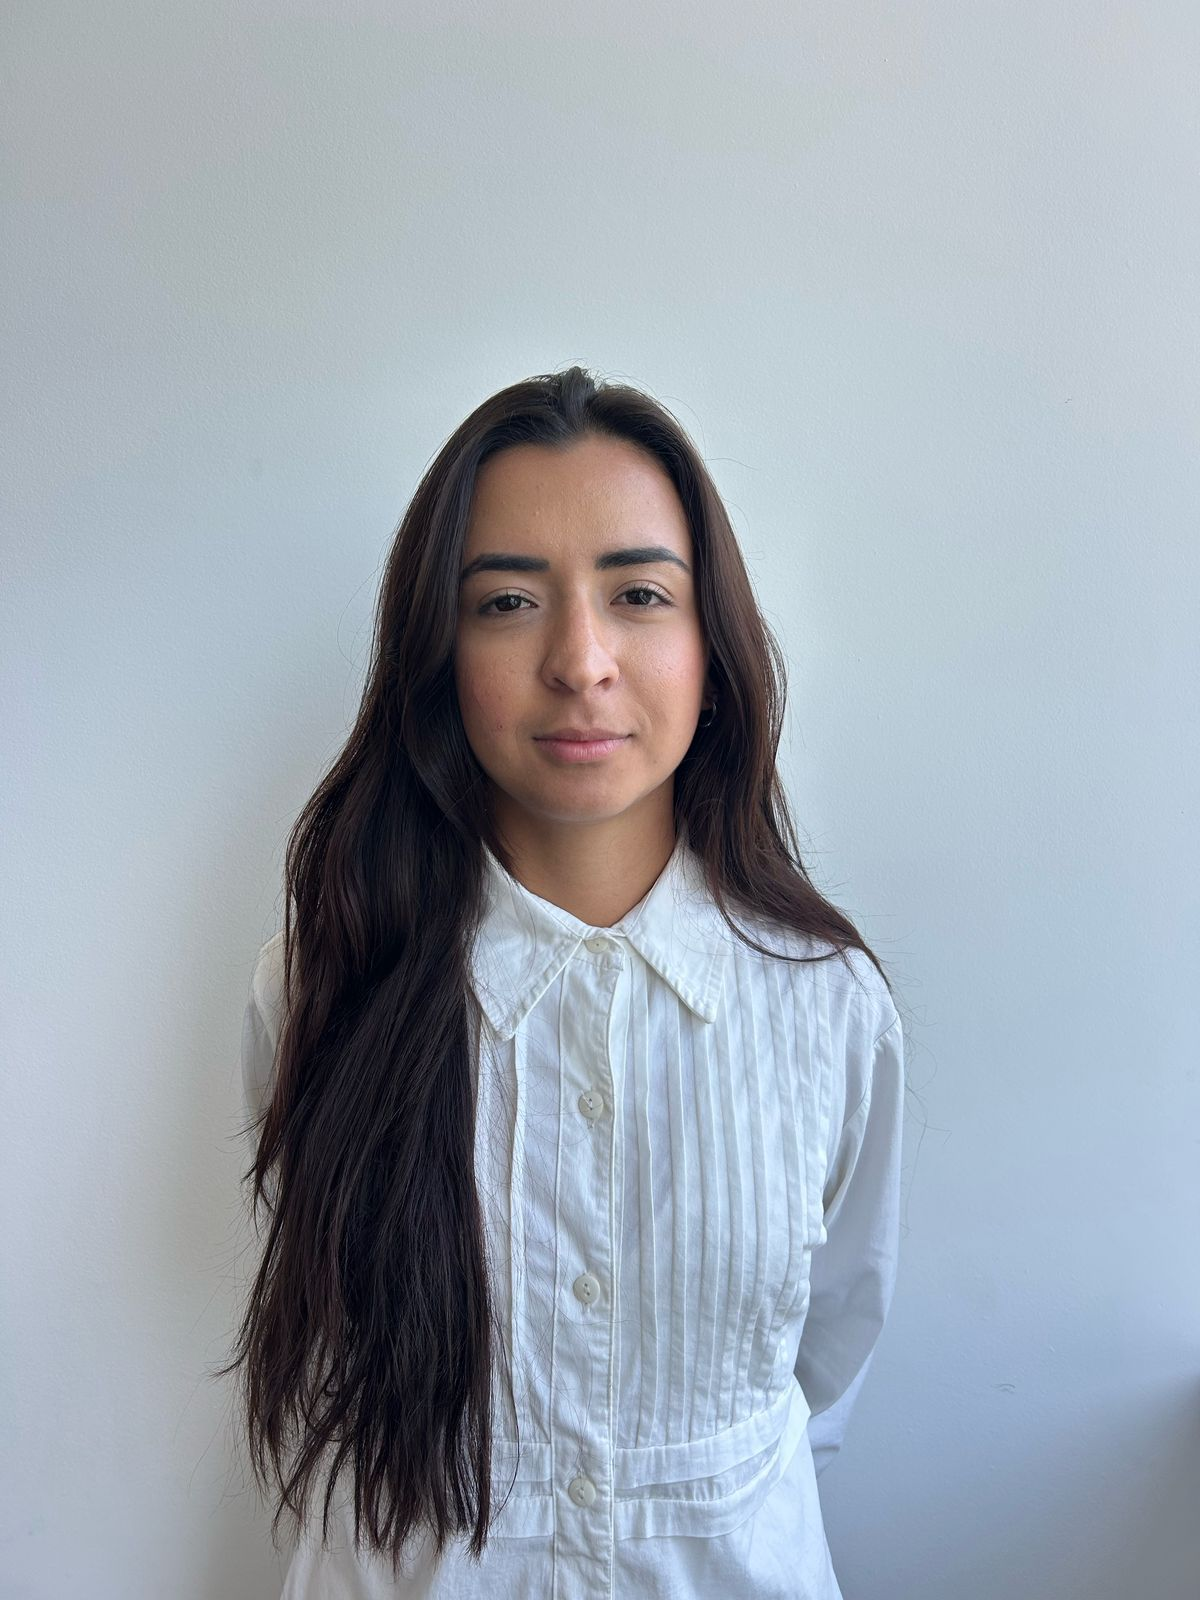
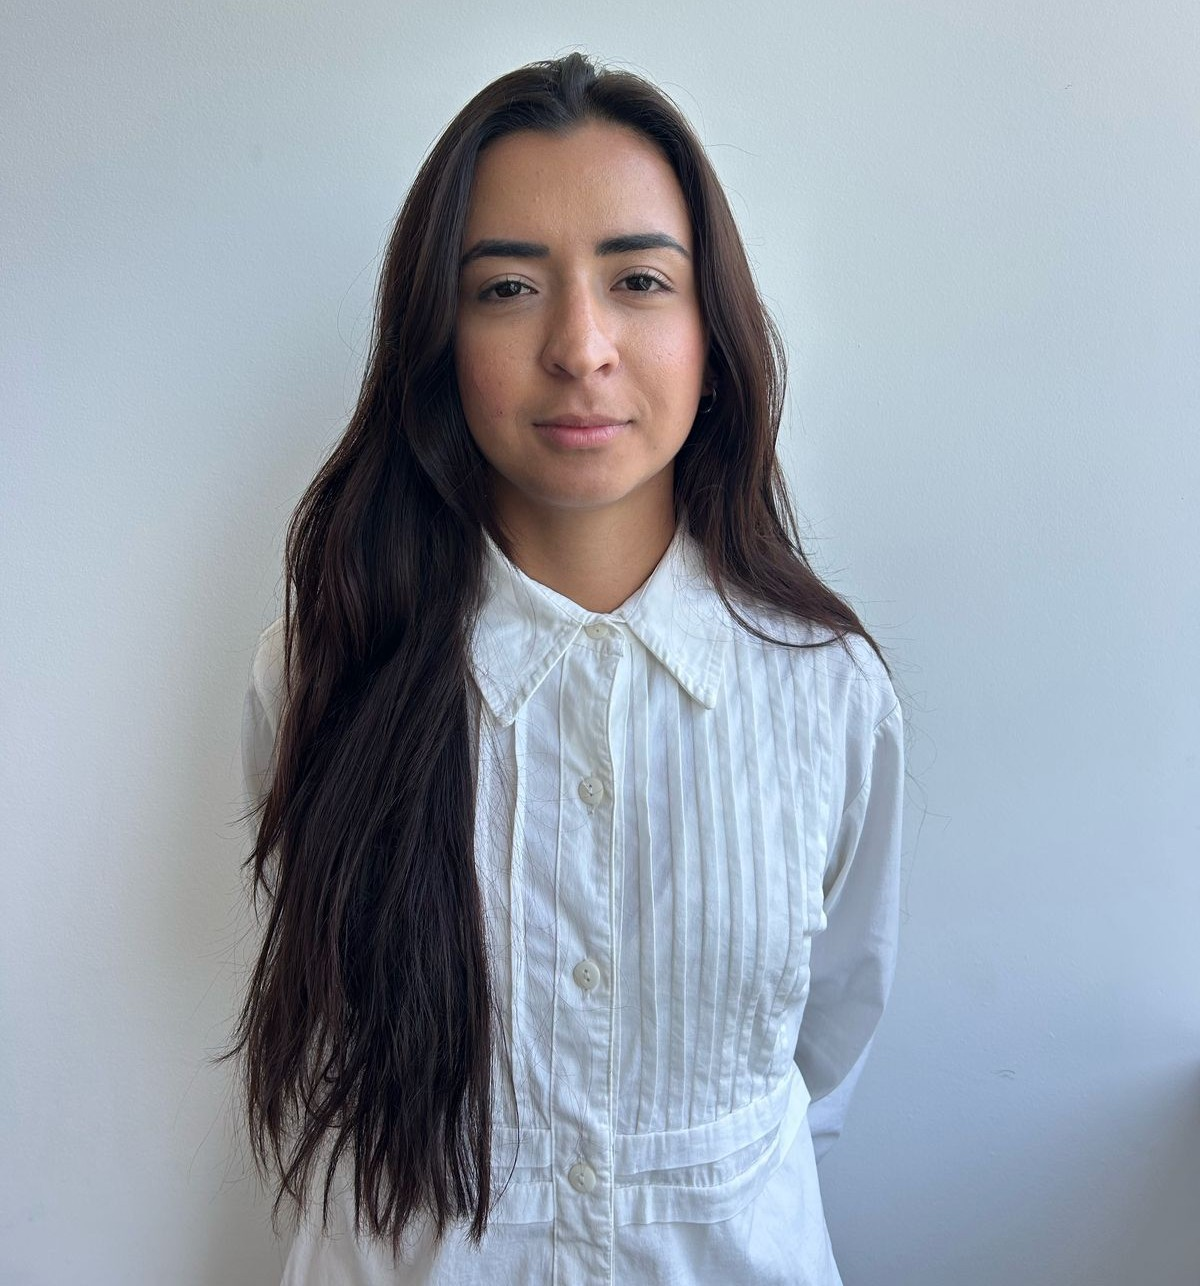
photos adjustments

Changed region(s): [[0.185, 0.0311, 0.7708, 0.9953], [0.925, 0.8087, 1.0, 0.902], [0.0, 0.2799, 0.0308, 0.311]]

diff --git a/src/styles/components/Membro.css b/src/styles/components/Membro.css
@@ -1,6 +1,6 @@
 .membro {
     background-color: #f9f9f9;
-    width: 200px;
+    width: 12rem;
     border-radius: 8px;
     padding: 1rem;
     box-shadow: 0px 4px 8px rgba(0, 0, 0, 0.1);
@@ -18,7 +18,8 @@
   
   .membro-imagem {
     width: 100%;
-    height: 200px;
+    height: 12rem;
+    object-position: top;
     object-fit: cover;
     border-radius: 50%;
     margin-bottom: 1rem;
